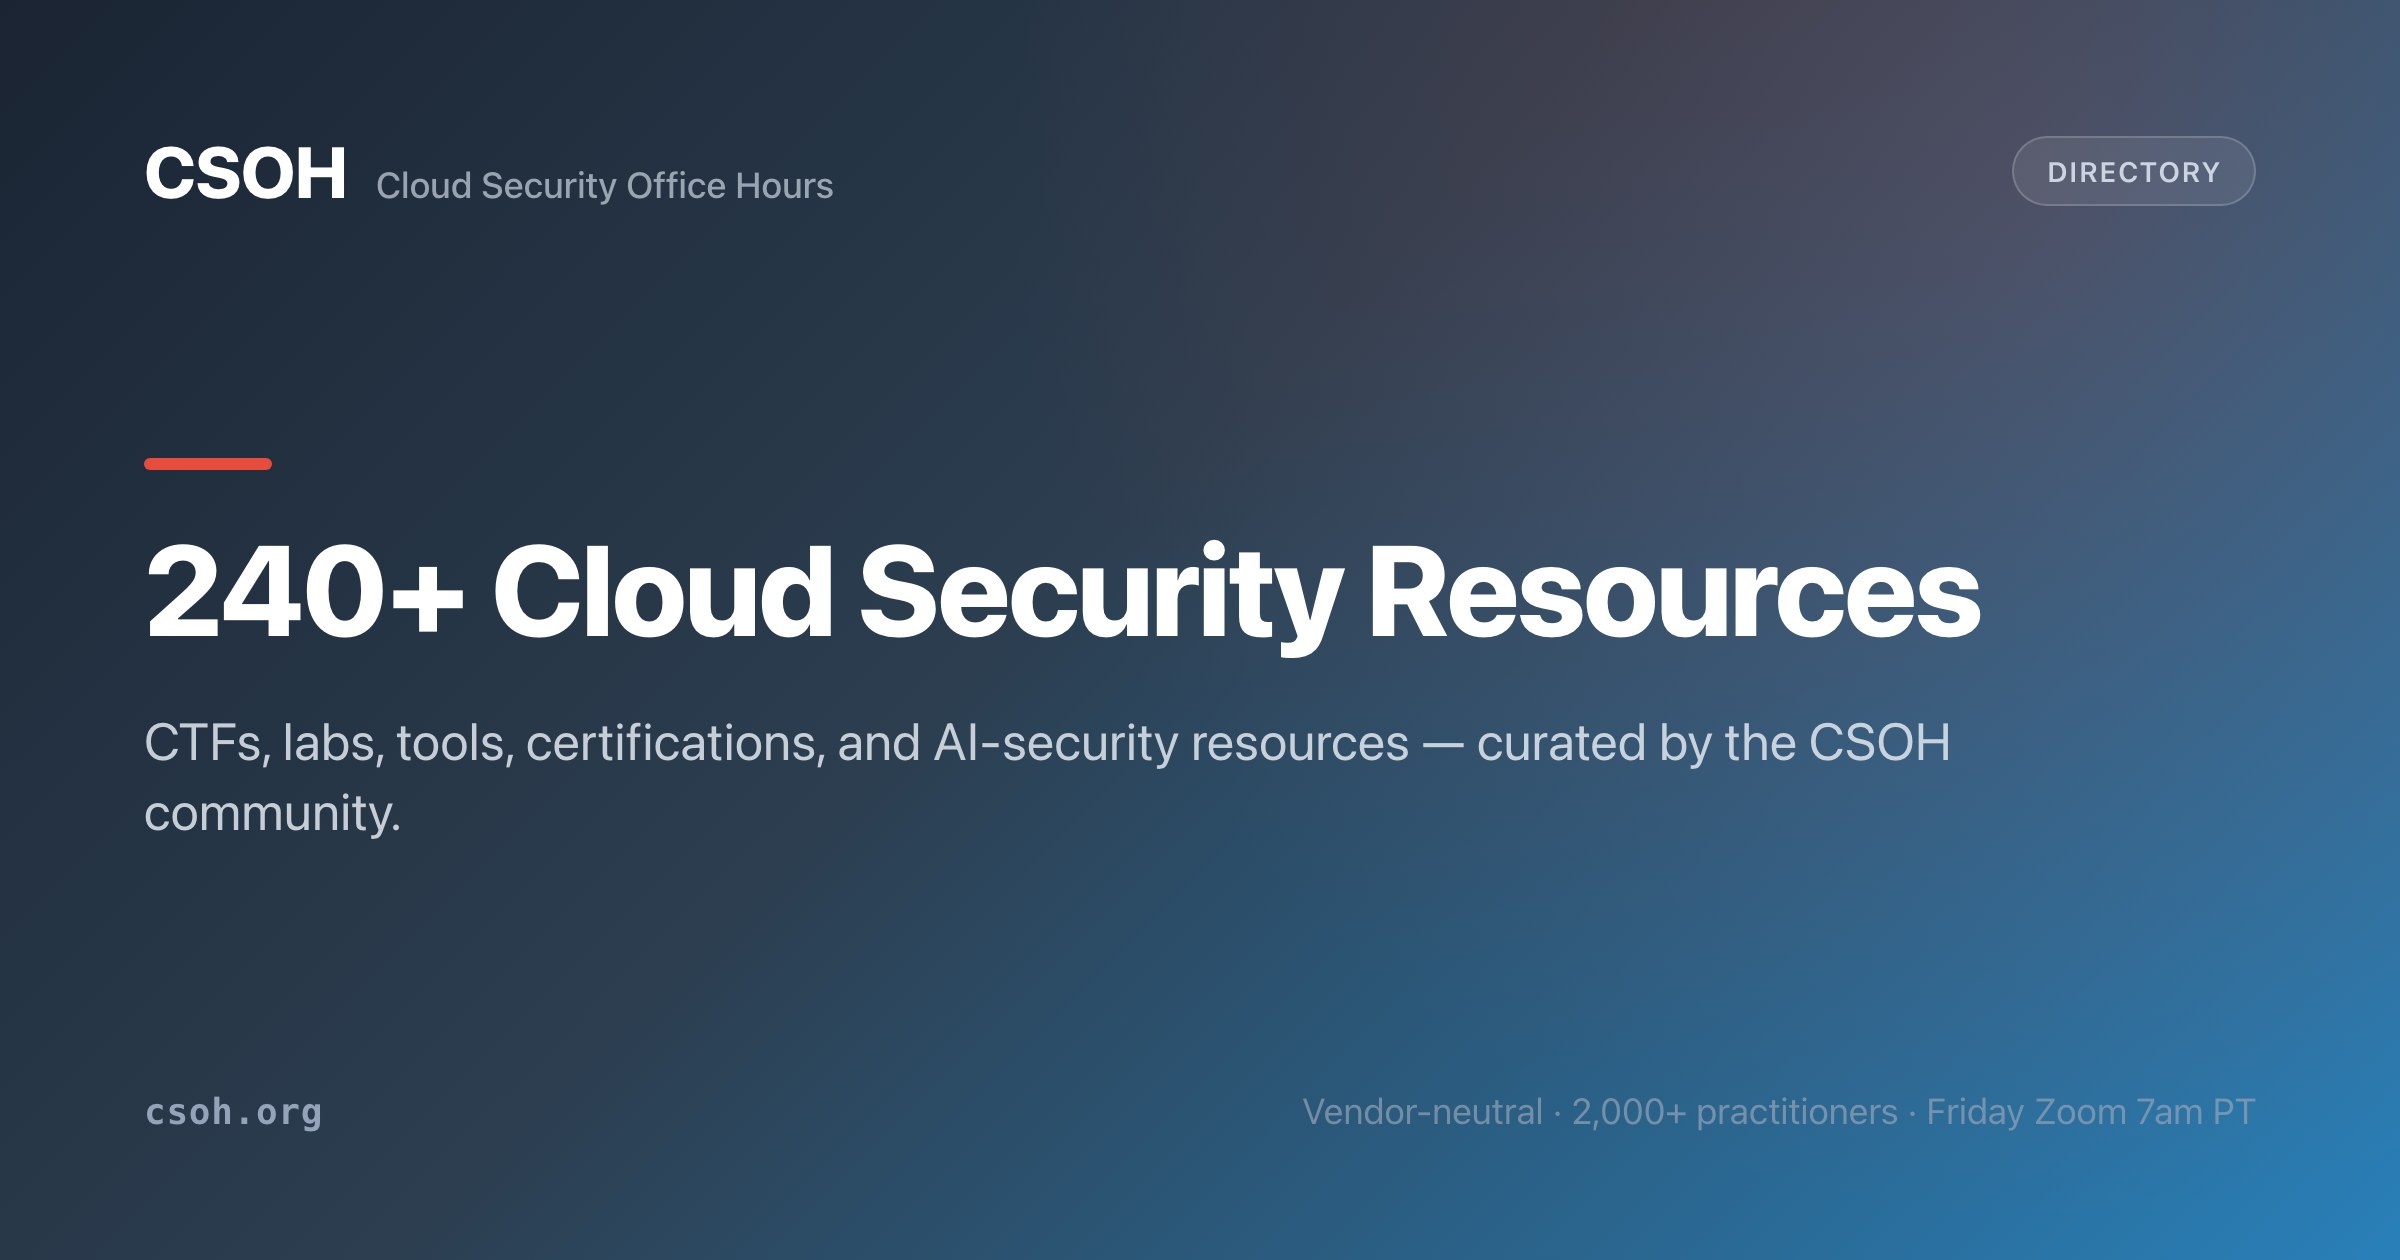
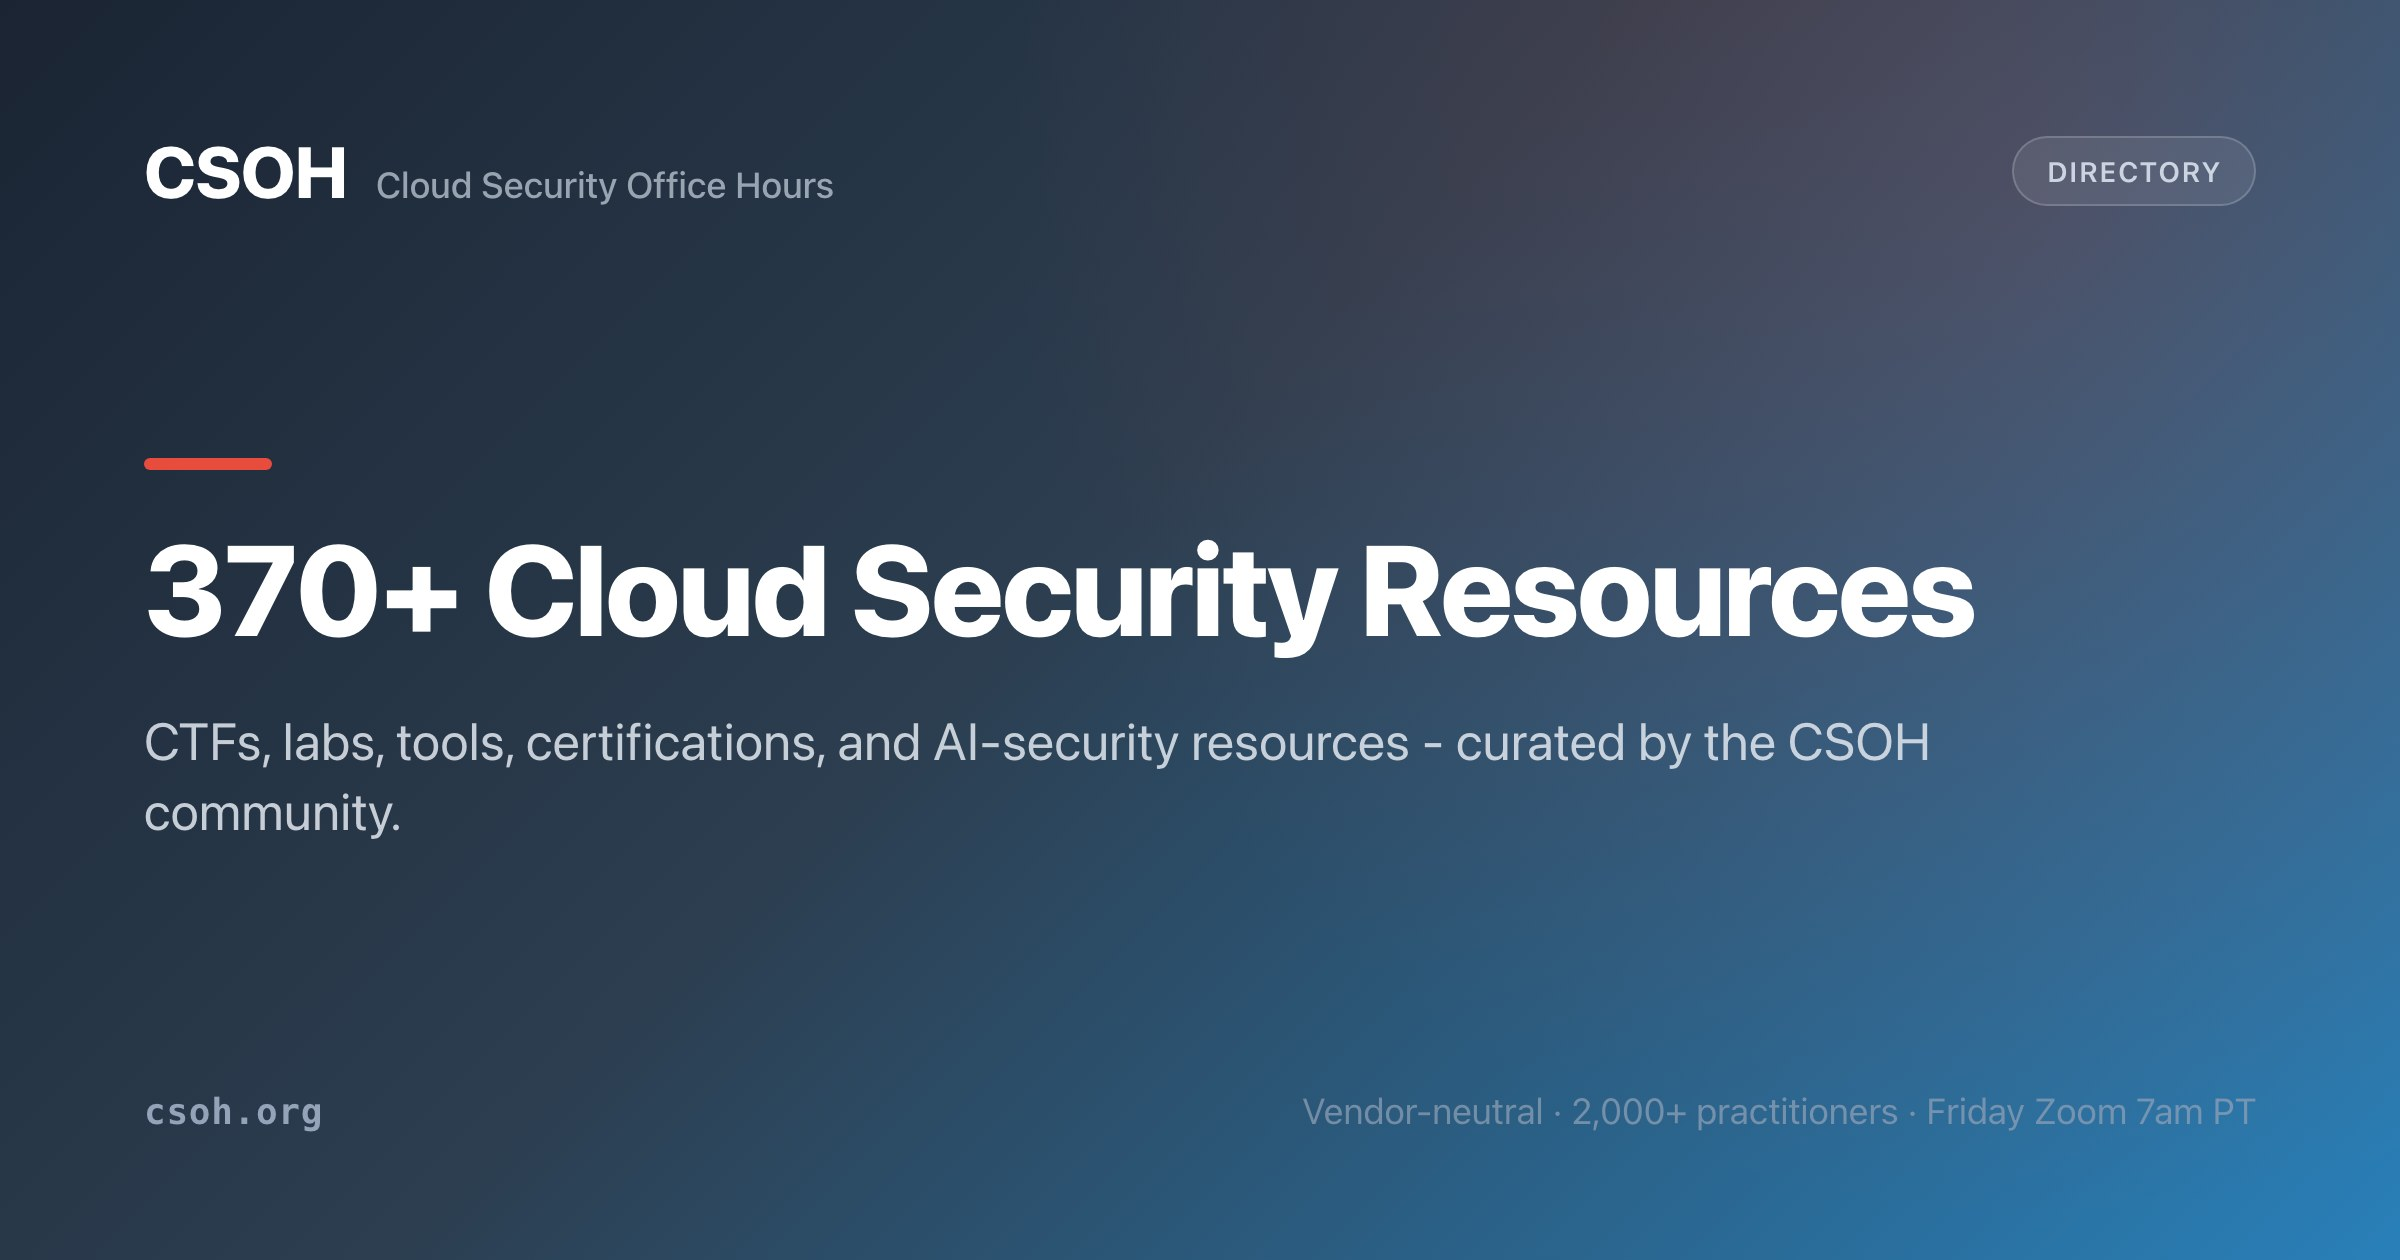
docs+fix: resolve the three flagged accuracy items
1. update-resources.yml: bump the pinned Claude model from claude-opus-4-7
   to claude-opus-4-8 (current model; the only workflow that sets --model).
2. generate_og_images.py: refresh stale OG-card marketing numbers - '240+
   resources' -> '370+' (actual 374) and '94 meetings' -> '102' - and
   regenerated the three affected social cards (index, resources, meetings).
3. SECURITY.md: the documented CSP frame-src omitted docs.google.com and
   drive.google.com, which the live nginx/.htaccess/Cloudflare configs DO
   send (for the Google Slides embeds on presentations.html). Synced the doc
   to the deployed policy and noted why those origins are allowed.

Changed region(s): [[0.0625, 0.4333, 0.8438, 0.5262], [0.5938, 0.5571, 0.8125, 0.619]]

diff --git a/tools/generate_og_images.py b/tools/generate_og_images.py
@@ -45,7 +45,7 @@ OG_VIEWPORT = {"width": 1200, "height": 630}
 PAGES = [
     ("index.html",
      "Cloud Security, Vendor-Neutral",
-     "2,000+ practitioners. 240+ resources. Free weekly Zoom. No trackers.",
+     "2,000+ practitioners. 370+ resources. Free weekly Zoom. No trackers.",
      "Community"),
     ("what-is-cloud-security.html",
      "What is Cloud Security?",
@@ -84,7 +84,7 @@ PAGES = [
      "Version control from first principles, then our real git workflow - branches, pull requests, secrets out of history.",
      "Tutorial"),
     ("resources.html",
-     "240+ Cloud Security Resources",
+     "370+ Cloud Security Resources",
      "CTFs, labs, tools, certifications, and AI-security resources - curated by the CSOH community.",
      "Directory"),
     ("ctfs.html",
@@ -108,8 +108,8 @@ PAGES = [
      "Vendor research teams, IOC feeds, MITRE ATT&CK Cloud mappings, government advisories - curated.",
      "Defender Resource"),
     ("meetings.html",
-     "94 Weekly Cloud Security Recaps",
-     "Topic-by-topic notes from every CSOH Friday session - 94 meetings searchable by speaker and topic.",
+     "102 Weekly Cloud Security Recaps",
+     "Topic-by-topic notes from every CSOH Friday session - 102 meetings searchable by speaker and topic.",
      "Archive"),
     ("faq.html",
      "Cloud Security Office Hours FAQ",

diff --git a/SECURITY.md b/SECURITY.md
@@ -38,7 +38,7 @@ style-src 'self';
 img-src 'self' https://csoh.org https://img.youtube.com https://i.ytimg.com https://csoh.goatcounter.com data:;
 font-src 'self';
 connect-src 'self' https://csoh.goatcounter.com;
-frame-src https://www.youtube.com https://web.archive.org;
+frame-src https://www.youtube.com https://web.archive.org https://docs.google.com https://drive.google.com;
 frame-ancestors 'none';
 base-uri 'self';
 form-action 'self';
@@ -47,7 +47,7 @@ object-src 'none'
 
 Key points:
 - **No `unsafe-inline` or `unsafe-eval`** in `script-src` - inline scripts and `eval()` are blocked
-- **No wildcards** - every external domain is explicitly listed
+- **No wildcards** - every external domain is explicitly listed (`docs.google.com`/`drive.google.com` are present only to allow the embedded Google Slides decks on `presentations.html`)
 - **`frame-ancestors 'none'`** - supersedes `X-Frame-Options` for modern browsers
 - **`object-src 'none'`** - blocks Flash, Java applets, and other plugin content
 - Only YouTube and Web Archive are allowed as iframe sources
